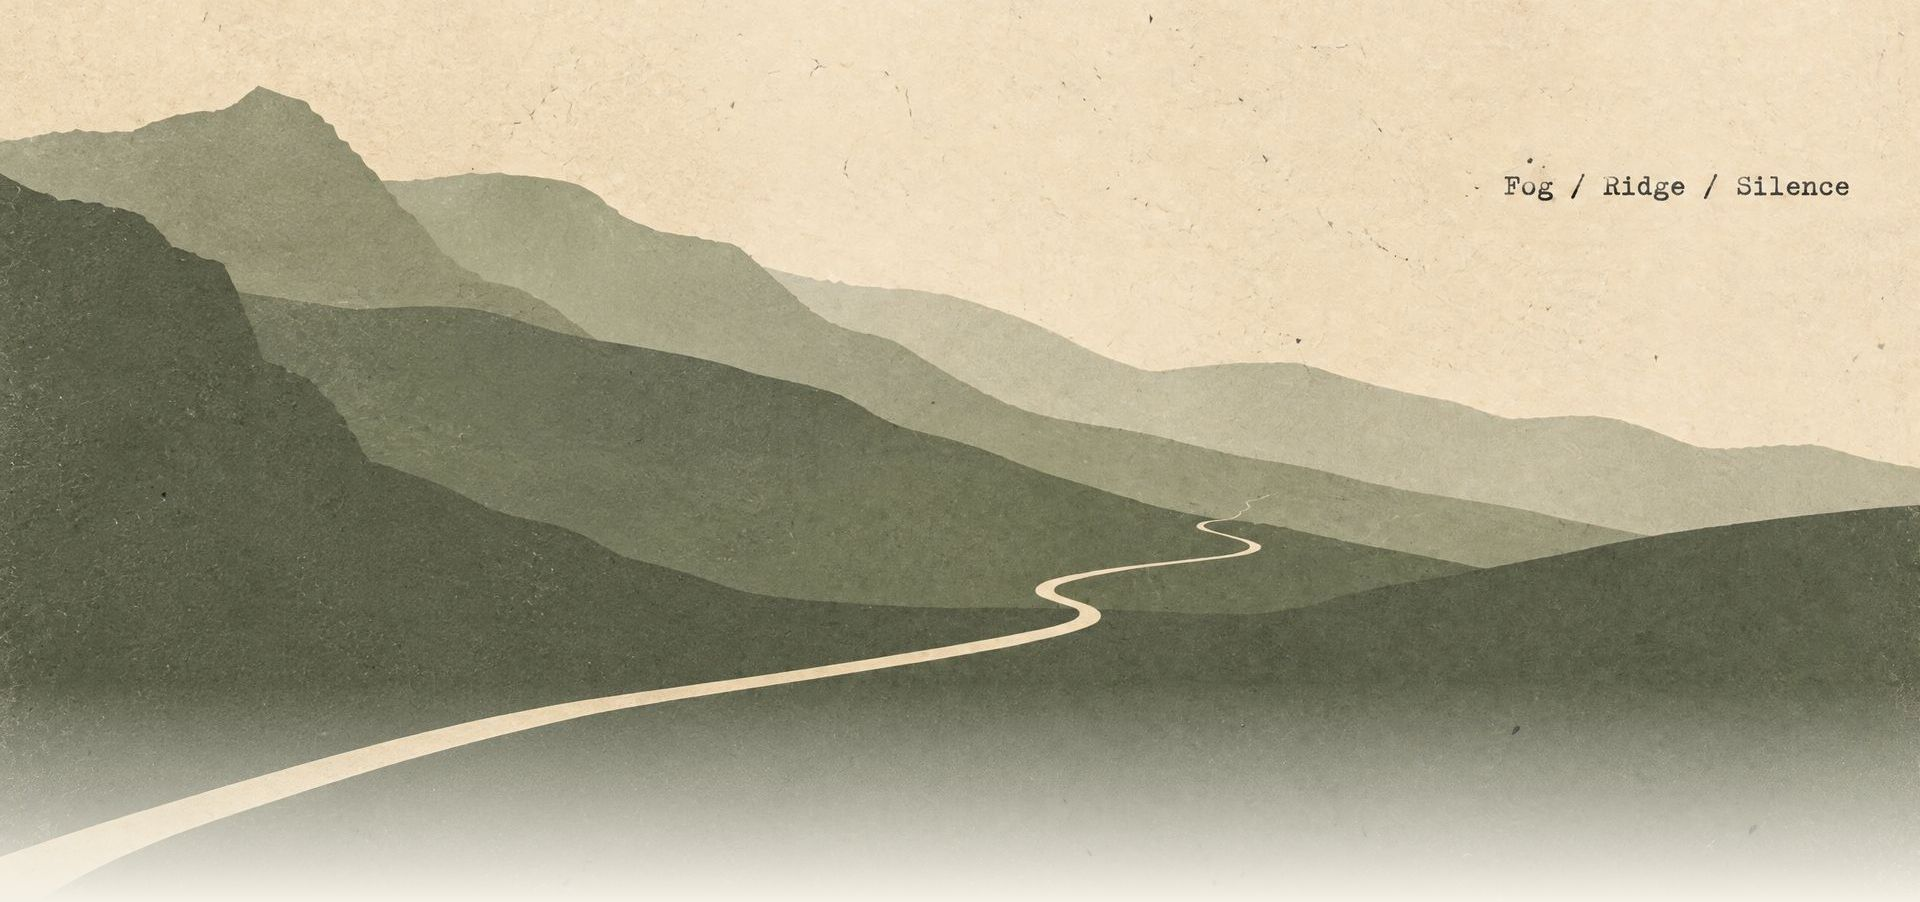
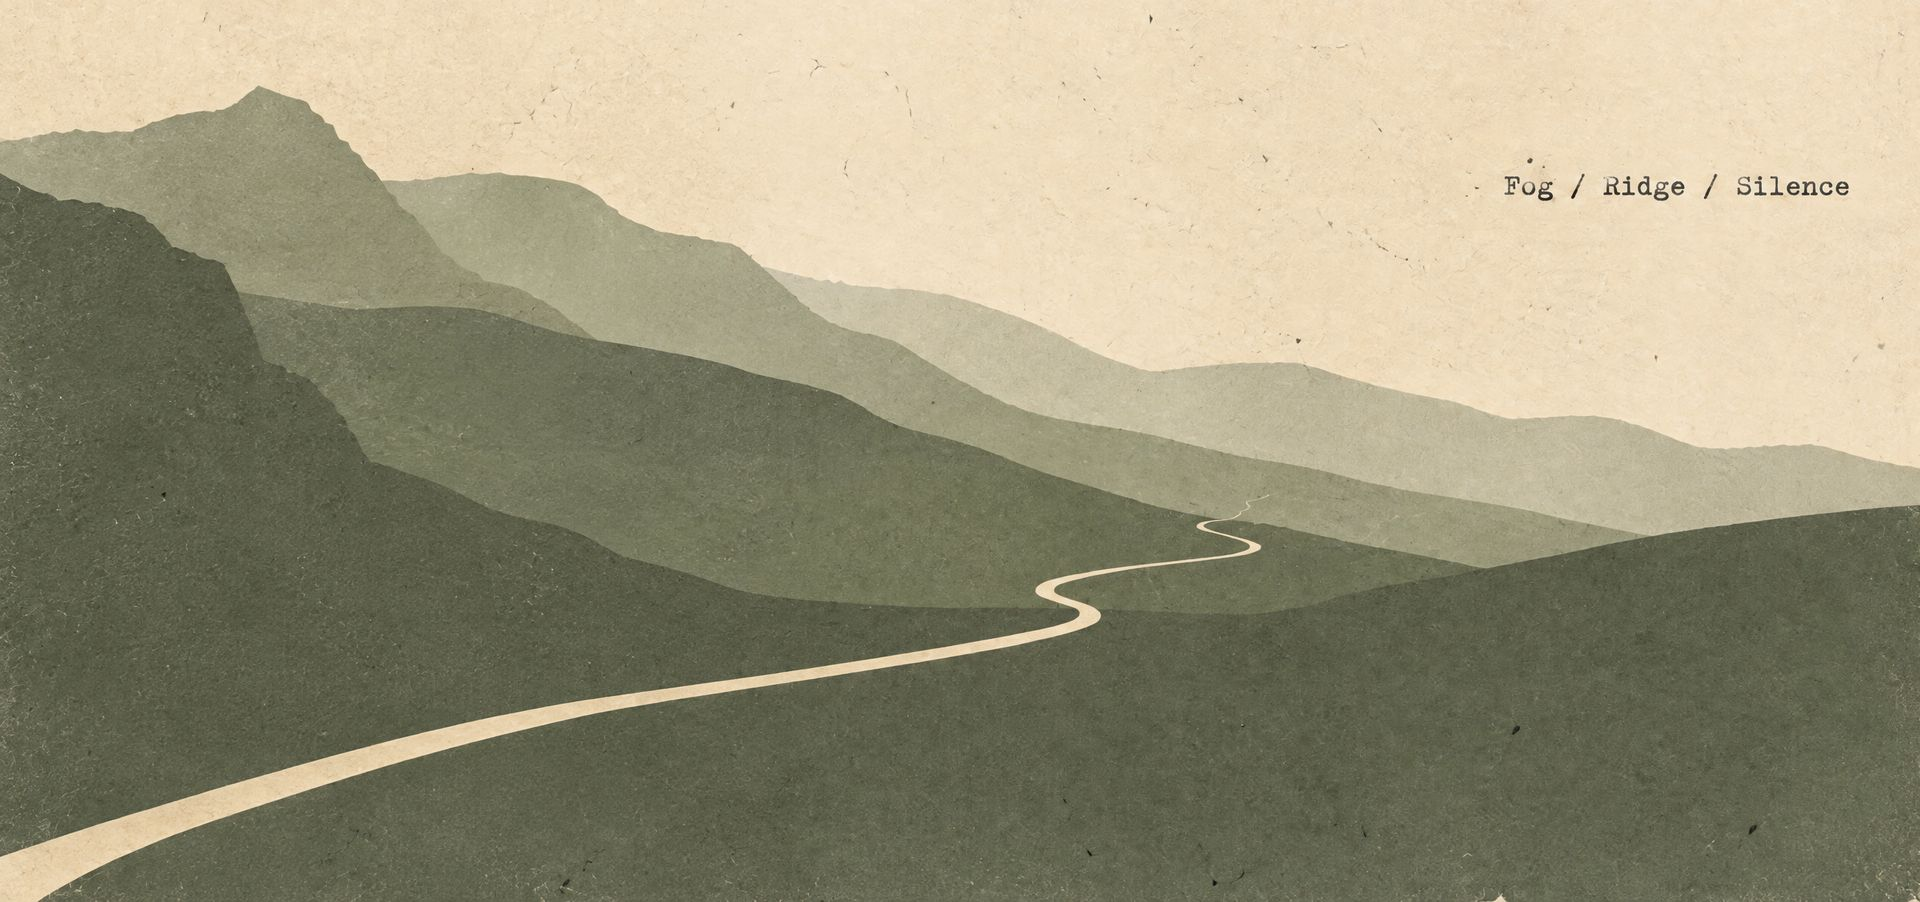
Move GitHub link to bottom-left corner of homepage artwork

Changed region(s): [[0.0, 0.7761, 1.0, 1.0]]

diff --git a/assets/css/style.css b/assets/css/style.css
@@ -96,6 +96,7 @@ main#content {
 
 /* ---------- 首页 Hero ---------- */
 .hero {
+  position: relative;
   width: 100vw;
   margin-left: calc(50% - 50vw);
   min-height: calc(100vh - var(--masthead-h));
@@ -106,6 +107,19 @@ main#content {
   padding: 48px 48px;
   background: url("../images/bg-hero.jpg") center / cover no-repeat;
 }
+
+/* 左下角 GitHub 角标 */
+.hero-github {
+  position: absolute;
+  left: 48px;
+  bottom: 24px;
+  color: rgba(240, 234, 216, 0.82);
+  text-decoration: none;
+  font-size: 0.9rem;
+  letter-spacing: 0.05em;
+  transition: color 0.2s ease;
+}
+.hero-github:hover { color: #fff; }
 
 /* ---------- 区块 ---------- */
 .section { padding: 64px 0; border-top: 1px solid var(--line); }

diff --git a/_layouts/default.html b/_layouts/default.html
@@ -83,10 +83,12 @@
     {{ content }}
   </main>
 
+  {% unless page.hide_footer %}
   <footer class="site-footer">
     <div class="site-footer-inner">
-      © {{ site.time | date: "%Y" }} {{ site.title }} · <a href="https://github.com/{{ site.github_username }}" target="_blank" rel="noopener">GitHub</a>
+      © {{ site.time | date: "%Y" }} {{ site.title }}
     </div>
   </footer>
+  {% endunless %}
 </body>
 </html>

diff --git a/index.html b/index.html
@@ -1,5 +1,8 @@
 ---
 layout: default
+hide_footer: true
 ---
 
-<section class="hero"></section>
+<section class="hero">
+  <a class="hero-github" href="https://github.com/{{ site.github_username }}" target="_blank" rel="noopener">GitHub</a>
+</section>
